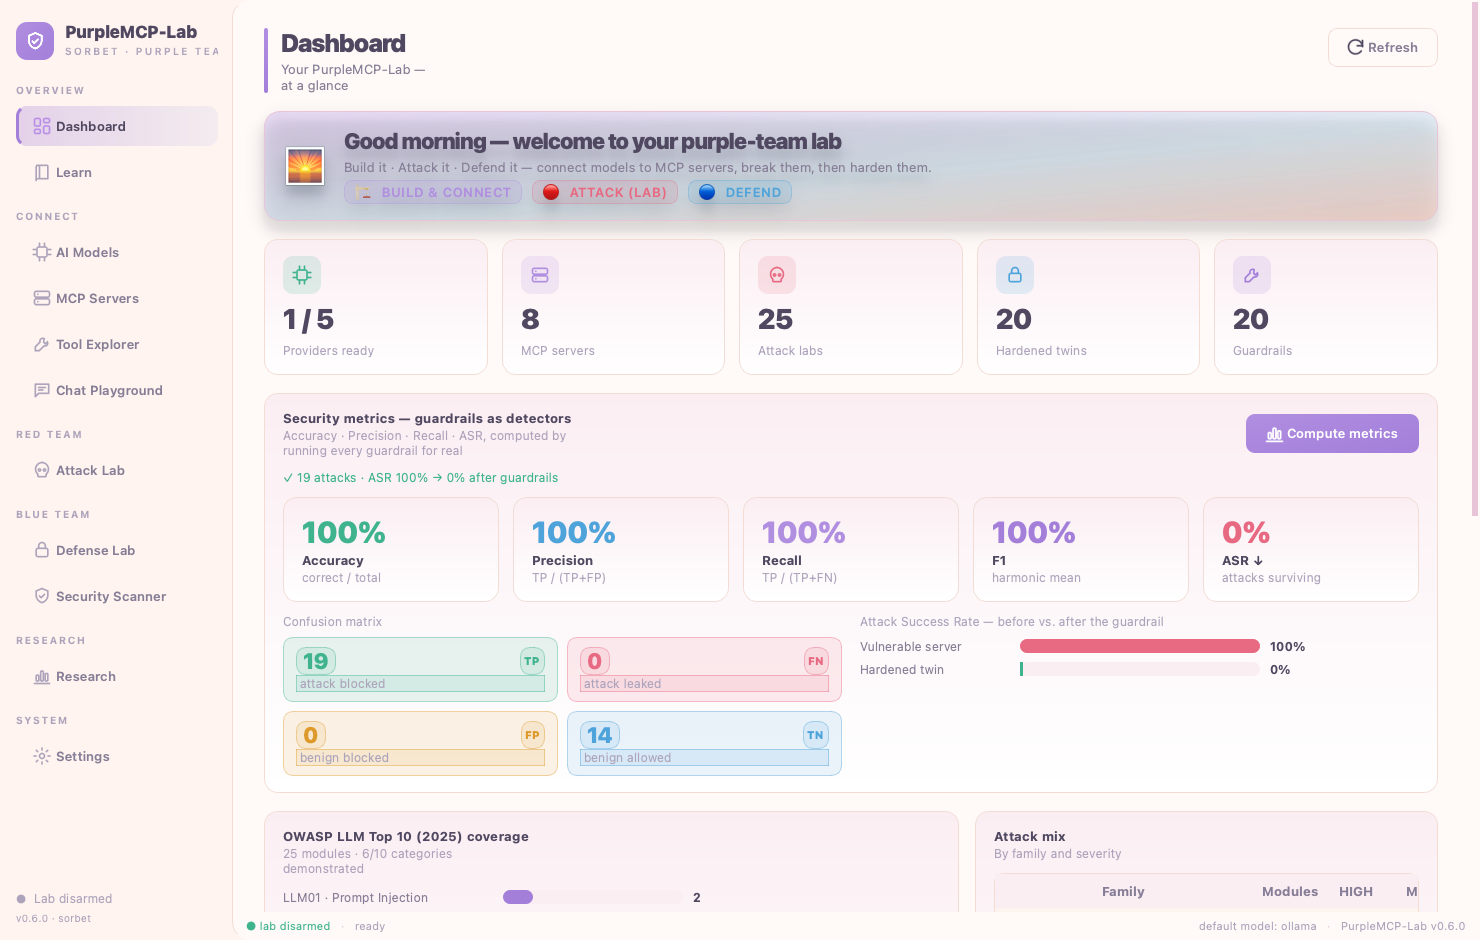
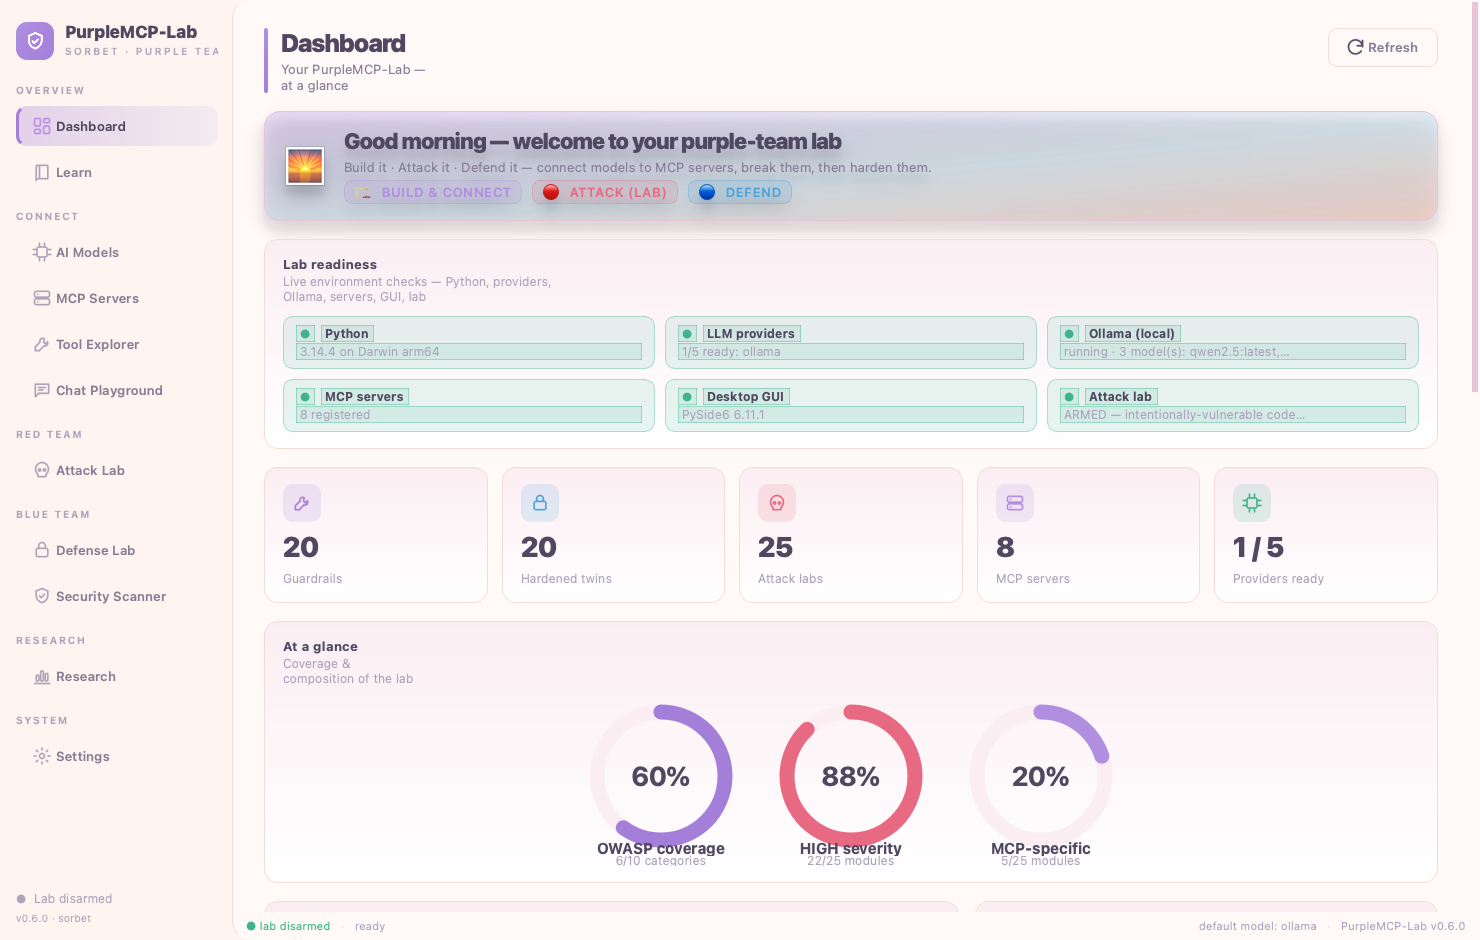
Enhance dashboard: re-sequenced layout, readiness panel & donut gauges
- Re-order the Overview/Dashboard sections (greeting → readiness → defense-first
  stat tiles → donut gauges → coverage+mix → security metrics) so it no longer
  matches the previous layout
- New "Lab readiness" panel: 6 live environment.gather() checks (Python, providers,
  Ollama, MCP servers, GUI, lab state) as status pills — real introspection
- New painted donut gauges (OWASP coverage, HIGH-severity share, MCP-specific share)
  computed from the real taxonomy — a new graph type alongside the bar charts
- All values are live/real; verified no mocked, simulated, or canned code in core
  or servers. 133 tests pass; dashboard screenshot regenerated.

diff --git a/purplemcp/gui/widgets/dashboard.py b/purplemcp/gui/widgets/dashboard.py
@@ -10,8 +10,8 @@ from __future__ import annotations
 
 import datetime as _dt
 
-from PySide6.QtCore import Qt, Signal
-from PySide6.QtGui import QColor
+from PySide6.QtCore import QRectF, Qt, Signal
+from PySide6.QtGui import QColor, QPainter, QPen
 from PySide6.QtWidgets import (
     QAbstractItemView,
     QFrame,
@@ -26,6 +26,7 @@ from PySide6.QtWidgets import (
     QWidget,
 )
 
+from ... import environment
 from ...config import REPO_ROOT, load_providers, load_registry
 from ...taxonomy import OWASP_LLM_TOP10, TAXONOMY, owasp_coverage
 from ..async_bridge import AsyncLoop, run_job
@@ -119,6 +120,31 @@ def _make_table(headers: list[str]) -> QTableWidget:
     return t
 
 
+def _readiness_pill(check) -> QWidget:
+    """A status pill for one environment.Check (live readiness data)."""
+    color = PALETTE["green"] if check.ok else PALETTE["amber"]
+    pill = QFrame()
+    pill.setStyleSheet(
+        f"background: {rgba(color, 0.12)}; border: 1px solid {rgba(color, 0.4)}; border-radius: 10px;"
+    )
+    lay = QVBoxLayout(pill)
+    lay.setContentsMargins(12, 8, 12, 8)
+    lay.setSpacing(1)
+    top = QHBoxLayout()
+    top.setSpacing(6)
+    dot = QLabel("●")
+    dot.setStyleSheet(f"color: {color}; font-size: 11px;")
+    top.addWidget(dot)
+    nm = QLabel(check.name)
+    nm.setStyleSheet(f"color: {PALETTE['text']}; font-weight: 700; font-size: 12px;")
+    top.addWidget(nm)
+    top.addStretch(1)
+    lay.addLayout(top)
+    detail = check.detail if len(check.detail) <= 38 else check.detail[:37] + "…"
+    lay.addWidget(muted(detail, faint=True))
+    return pill
+
+
 class HBarChart(QWidget):
     """A lightweight horizontal bar chart built from frames (renders offscreen)."""
 
@@ -154,6 +180,56 @@ class HBarChart(QWidget):
             row.addWidget(val)
             row.addStretch(1)
             self._lay.addLayout(row)
+
+
+class Donut(QWidget):
+    """A small painted donut/ring gauge showing a fraction (0..1) with a caption."""
+
+    def __init__(self, fraction: float, caption: str, sub: str, color: str, parent=None) -> None:
+        super().__init__(parent)
+        self._frac = max(0.0, min(1.0, fraction))
+        self._caption = caption
+        self._sub = sub
+        self._color = color
+        self.setFixedSize(168, 168)
+
+    def set_fraction(self, fraction: float, sub: str | None = None) -> None:
+        self._frac = max(0.0, min(1.0, fraction))
+        if sub is not None:
+            self._sub = sub
+        self.update()
+
+    def paintEvent(self, event) -> None:  # noqa: N802
+        p = QPainter(self)
+        p.setRenderHint(QPainter.Antialiasing)
+        rect = QRectF(20, 14, 128, 128)
+        track = QPen(QColor(PALETTE["surface_hi"]))
+        track.setWidth(15)
+        track.setCapStyle(Qt.FlatCap)
+        p.setPen(track)
+        p.drawArc(rect, 0, 360 * 16)
+        arc = QPen(QColor(self._color))
+        arc.setWidth(15)
+        arc.setCapStyle(Qt.RoundCap)
+        p.setPen(arc)
+        p.drawArc(rect, 90 * 16, -int(360 * 16 * self._frac))
+        p.setPen(QColor(PALETTE["text"]))
+        f = p.font()
+        f.setPointSize(20)
+        f.setBold(True)
+        p.setFont(f)
+        p.drawText(rect, Qt.AlignCenter, f"{round(self._frac * 100)}%")
+        f.setPointSize(11)
+        f.setBold(True)
+        p.setFont(f)
+        p.setPen(QColor(PALETTE["text"]))
+        p.drawText(QRectF(0, 142, 168, 16), Qt.AlignCenter, self._caption)
+        f.setPointSize(9)
+        f.setBold(False)
+        p.setFont(f)
+        p.setPen(QColor(PALETTE["text_faint"]))
+        p.drawText(QRectF(0, 156, 168, 12), Qt.AlignCenter, self._sub)
+        p.end()
 
 
 class ConfusionMatrix(QWidget):
@@ -317,28 +393,34 @@ class DashboardPage(QWidget):
 
         root.addWidget(HeroCard())
 
-        # stat tiles
+        # 1) live readiness checks (real environment introspection)
+        root.addWidget(self._build_readiness_card())
+
+        # 2) stat tiles — defense-first ordering (re-sequenced)
         stats = QHBoxLayout()
         stats.setSpacing(14)
-        self._providers_stat = StatCard("0 / 0", "Providers ready", "cpu", PALETTE["green"])
-        self._servers_stat = StatCard("0", "MCP servers", "server", PALETTE["violet"])
-        self._labs_stat = StatCard("0", "Attack labs", "skull", PALETTE["red"])
-        self._twins_stat = StatCard(str(_count_hardened_twins()), "Hardened twins", "lock", PALETTE["blue"])
         self._guardrails_stat = StatCard(str(_count_guardrails()), "Guardrails", "tools", PALETTE["purple"])
-        for card in (self._providers_stat, self._servers_stat, self._labs_stat,
-                     self._twins_stat, self._guardrails_stat):
+        self._twins_stat = StatCard(str(_count_hardened_twins()), "Hardened twins", "lock", PALETTE["blue"])
+        self._labs_stat = StatCard("0", "Attack labs", "skull", PALETTE["red"])
+        self._servers_stat = StatCard("0", "MCP servers", "server", PALETTE["violet"])
+        self._providers_stat = StatCard("0 / 0", "Providers ready", "cpu", PALETTE["green"])
+        for card in (self._guardrails_stat, self._twins_stat, self._labs_stat,
+                     self._servers_stat, self._providers_stat):
             stats.addWidget(card)
         root.addLayout(stats)
 
-        # security-metrics panel (the headline feature)
-        root.addWidget(self._build_metrics_card())
+        # 3) at-a-glance donut gauges
+        root.addWidget(self._build_charts_card())
 
-        # two-column: OWASP coverage chart | attack mix table
+        # 4) two-column: OWASP coverage chart | attack mix table
         mid = QHBoxLayout()
         mid.setSpacing(16)
         mid.addWidget(self._build_coverage_card(), 3)
         mid.addWidget(self._build_mix_card(), 2)
         root.addLayout(mid)
+
+        # 5) security-metrics panel
+        root.addWidget(self._build_metrics_card())
 
         # quick actions
         qa = Card("Quick actions", "Jump straight in")
@@ -367,6 +449,43 @@ class DashboardPage(QWidget):
         outer.setContentsMargins(0, 0, 0, 0)
         outer.addWidget(make_scroll(inner))
         self.refresh()
+
+    # -- readiness -------------------------------------------------------- #
+    def _build_readiness_card(self) -> Card:
+        card = Card("Lab readiness", "Live environment checks — Python, providers, Ollama, servers, GUI, lab")
+        self._readiness_grid = QGridLayout()
+        self._readiness_grid.setHorizontalSpacing(10)
+        self._readiness_grid.setVerticalSpacing(10)
+        card.body.addLayout(self._readiness_grid)
+        return card
+
+    def _refresh_readiness(self) -> None:
+        clear_layout(self._readiness_grid)
+        try:
+            checks = environment.gather()
+        except Exception:  # noqa: BLE001 - never let a probe break the dashboard
+            checks = []
+        for i, chk in enumerate(checks):
+            self._readiness_grid.addWidget(_readiness_pill(chk), i // 3, i % 3)
+
+    # -- donut gauges ----------------------------------------------------- #
+    def _build_charts_card(self) -> Card:
+        card = Card("At a glance", "Coverage & composition of the lab")
+        cov = owasp_coverage()
+        covered = sum(1 for v in cov.values() if v)
+        total = len(TAXONOMY) or 1
+        high = sum(1 for e in TAXONOMY if e.severity == "HIGH")
+        mcp = sum(1 for e in TAXONOMY if e.family.startswith("MCP"))
+        row = QHBoxLayout()
+        row.setSpacing(22)
+        row.addStretch(1)
+        row.addWidget(Donut(covered / len(OWASP_LLM_TOP10), "OWASP coverage",
+                            f"{covered}/{len(OWASP_LLM_TOP10)} categories", PALETTE["purple"]))
+        row.addWidget(Donut(high / total, "HIGH severity", f"{high}/{total} modules", PALETTE["red"]))
+        row.addWidget(Donut(mcp / total, "MCP-specific", f"{mcp}/{total} modules", PALETTE["violet"]))
+        row.addStretch(1)
+        card.body.addLayout(row)
+        return card
 
     # -- security metrics ------------------------------------------------- #
     def _build_metrics_card(self) -> Card:
@@ -531,6 +650,7 @@ class DashboardPage(QWidget):
 
     # -- data ------------------------------------------------------------- #
     def refresh(self) -> None:
+        self._refresh_readiness()
         providers = load_providers()
         registry = load_registry()
         ready = sum(1 for c in providers.values() if c.ready)

diff --git a/CHANGELOG.md b/CHANGELOG.md
@@ -7,13 +7,15 @@ All notable changes to PurpleMCP. This project adheres loosely to
 ## [0.6.0] — Sorbet edition
 
 ### Added
-- **Redesigned, playful dashboard** — a time-aware greeting, a live **Security
+- **Redesigned, playful dashboard (re-sequenced layout)** — a time-aware greeting,
+  a **Lab readiness** panel driven by live `environment.gather()` checks (Python,
+  providers, Ollama, servers, GUI, lab state), defense-first stat tiles, **donut
+  gauges** (OWASP coverage / HIGH-severity / MCP-specific share), an **OWASP-coverage
+  bar chart**, an **attack-mix** table, provider/server tables, and a live **Security
   metrics** panel that scores the guardrails as binary detectors
-  (**accuracy / precision / recall / F1 / ASR**) by running real attack + benign
-  payloads, a **confusion matrix** (TP/FP/TN/FN), an **ASR bar chart** (vulnerable
-  vs. hardened), an **OWASP-coverage bar chart**, an **attack-mix** table, and
-  provider/server tables. `purplemcp.benchmark.run_detection_metrics` computes it all
-  from live MCP calls — nothing is simulated.
+  (**accuracy / precision / recall / F1 / ASR**) with a **confusion matrix** and an
+  **ASR bar chart**. `purplemcp.benchmark.run_detection_metrics` computes the metrics
+  from real MCP calls — nothing is simulated.
 - **Light "Sorbet" theme (peach · mint · lilac)** — the whole console reskinned from
   the dark palette to a light, summery pastel one, driven entirely from
   `purplemcp.gui.theme.PALETTE`.